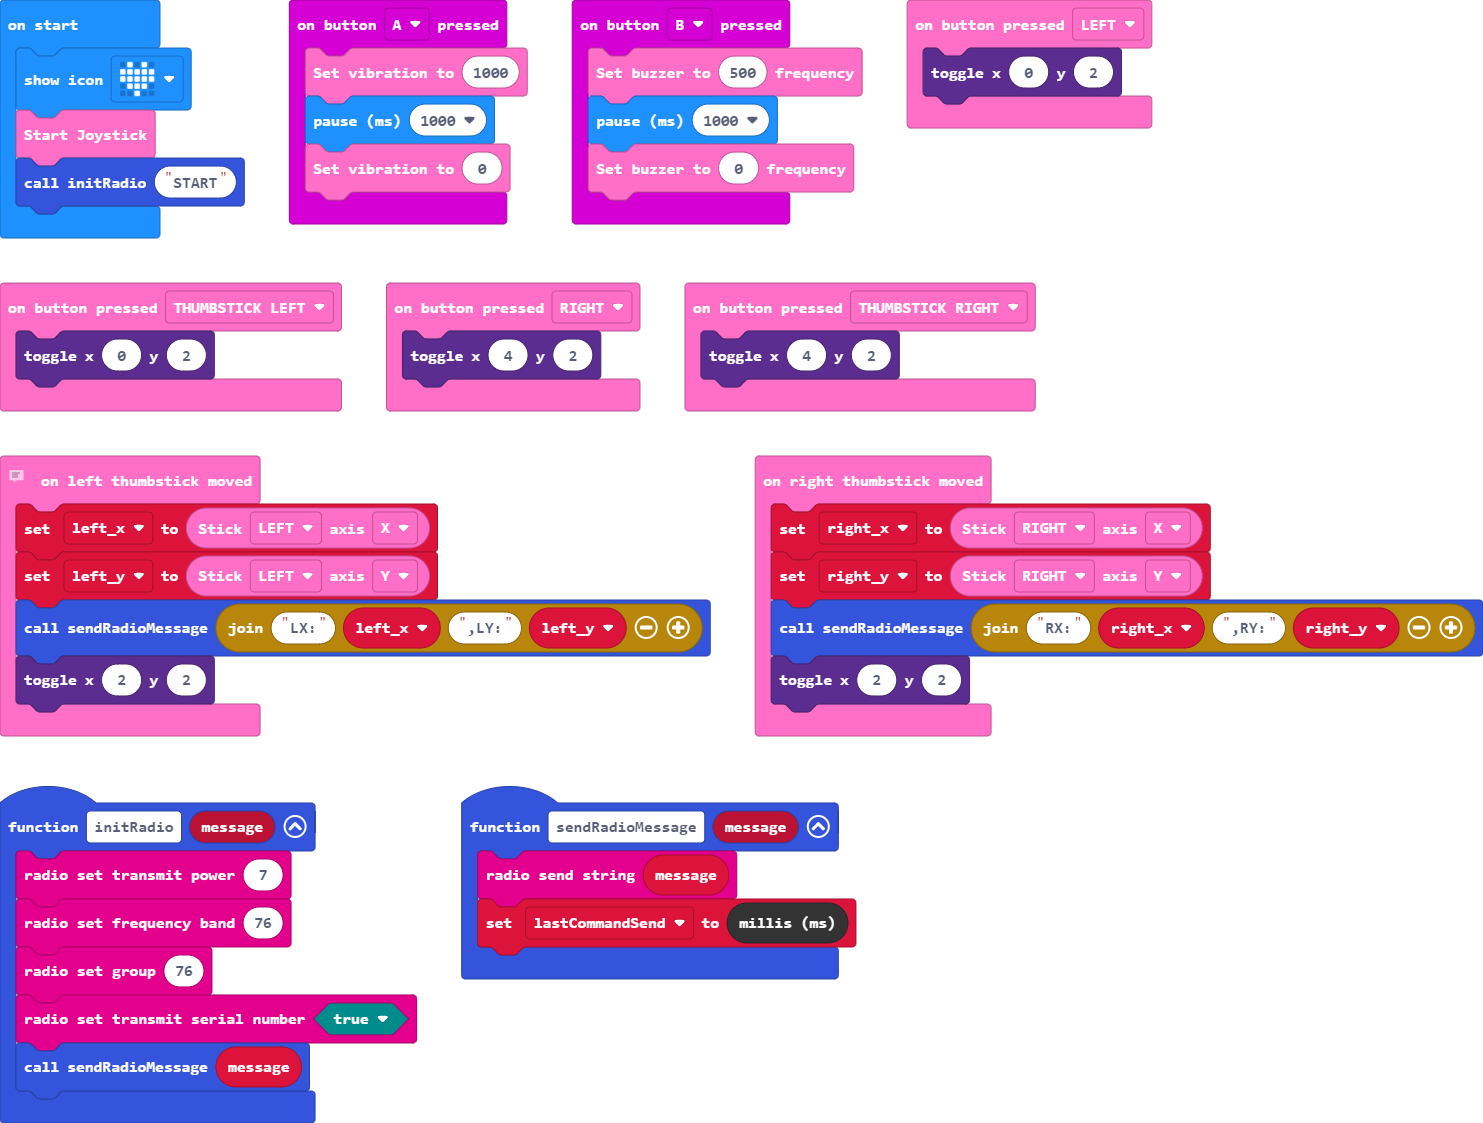
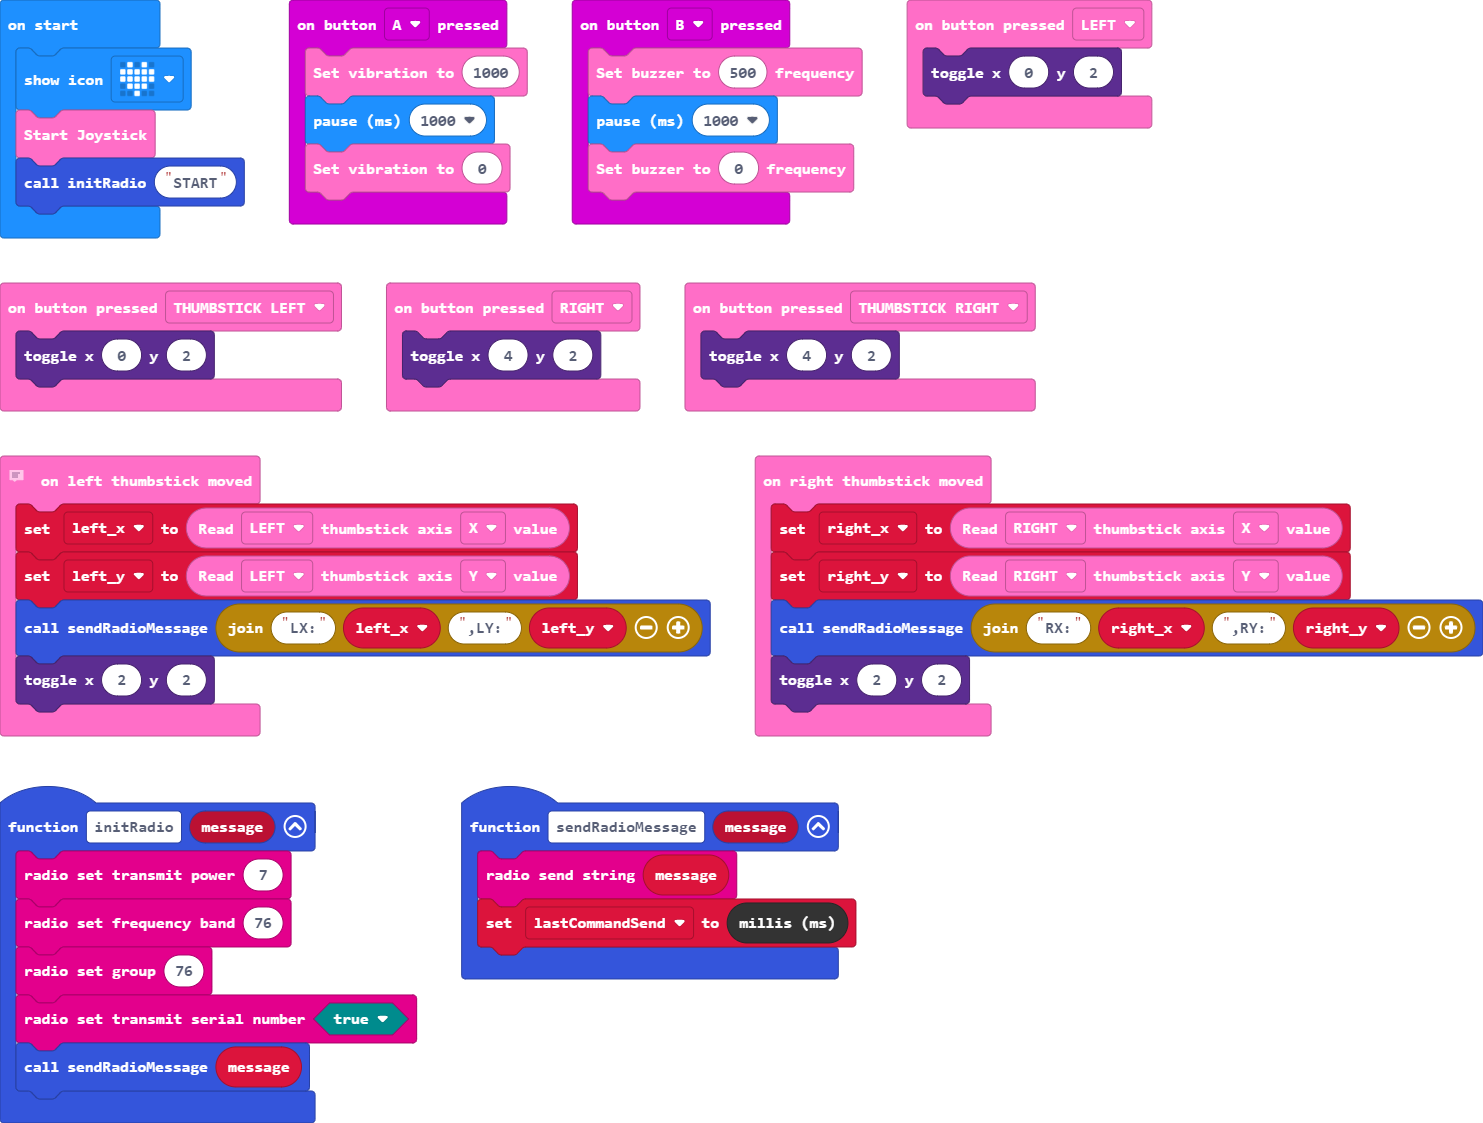
Update main.blocks, joystickbit.ts

Changed region(s): [[0.6514, 0.4363, 0.9305, 0.561], [0.1551, 0.4363, 0.4032, 0.561]]

diff --git a/joystickbit.ts b/joystickbit.ts
@@ -59,7 +59,7 @@ enum Stick {
     RIGHT = 1,
 }
 
-//% color="#FF6EC7" weight=10 icon="\uf11b" block="Joystick"
+//% color="#FF6EC7" weight=10 icon="\uf11b" block="Tiger Fancy Joystick"
 //% category="Joystick"
 namespace joystick {
 
@@ -83,7 +83,7 @@ namespace joystick {
     /**
       * Add into the start function to initialise the joystick.
     */
-    //% weight=1
+    //% weight=100
     //% block="Start Joystick"
     export function start(): void {
 
@@ -152,7 +152,7 @@ namespace joystick {
      * @param handler body code to run when the event is raised
      */
     //% block="on button pressed %button"
-    //% weight=10
+    //% weight=90
     export function onButtonPressed(
         button: buttons,
         handler: () => void
@@ -171,7 +171,7 @@ namespace joystick {
  * @param handler body code to run when the event is raised
  */
     //% block="on left thumbstick moved"
-    //% weight=20
+    //% weight=80
     export function onLeftThumbstickMoved(
         handler: () => void
     ) {
@@ -189,7 +189,7 @@ namespace joystick {
 * @param handler body code to run when the event is raised
 */
     //% block="on right thumbstick moved"
-    //% weight=30
+    //% weight=70
     export function onRightThumbstickMoved(
         handler: () => void
     ) {
@@ -325,7 +325,7 @@ namespace joystick {
     // }
 
     //% blockId=isButtonPressed block="Is button %button pressed?"
-    //% weight=74
+    //% weight=0
     //% inlineInputMode=inline
      function isButtonPressed(button: buttons): boolean {
          if (getButtonStatus(button) != NONE_PRESS && getButtonStatus(button) != 0xff) {
@@ -335,7 +335,7 @@ namespace joystick {
     }
 
     //% blockId=isButtonReleased block="Is button %button released?"
-    //% weight=74
+    //% weight=0
     //% inlineInputMode=inline
      function isButtonReleased(button: buttons): boolean {
          if (getButtonStatus(button) == NONE_PRESS) {
@@ -344,8 +344,8 @@ namespace joystick {
         return false;
     }
 
-    //% blockId=buttonStatus block="Get button %button status"
-    //% weight=60
+    //% blockId=buttonStatus block="Read %button button status"
+    //% weight=45
     //% inlineInputMode=inline
     export function getButtonStatus(button: buttons): key_status {
         //return Get_Button_Status(button)
@@ -365,7 +365,7 @@ namespace joystick {
 
     //% blockId=Gamepad_shock block="Set vibration to %shock"  
     //% shock.min=0 shock.max=1000
-    //% weight=40
+    //% weight=46
     //% inlineInputMode=inline
     export function setVibration(shock: number): void {
         let a = AnalogPin.P1;
@@ -374,15 +374,14 @@ namespace joystick {
 
     //% blockId=SetBuzzer block="Set buzzer to %freq frequency"
     //% freq.min=0 freq.max=1000
-    //% weight=50
+    //% weight=47
     export function setBuzzer(freq: number): void {
         let a = AnalogPin.P0;
         pins.analogWritePin(a, freq)
     }
 
-
-    //% blockId=GetStickAxis block="Stick %stick axis %axial"
-    //% weight=70
+    //% blockId=GetStickAxis block="Read %stick thumbstick axis %axial value"
+    //% weight=10
     //% inlineInputMode=inline
     export function getThumbstickAxis(stick: Stick, axial: Axis) {
         let val = 0;
@@ -402,11 +401,9 @@ namespace joystick {
         return val;
     }
 
-
-
     //https://blackdoor.github.io/blog/thumbstick-controls/
-    //% blockId=getDirection block="Get compass based direction for %stick"
-    //% weight=80
+    //% blockId=getDirection block="Read compass based direction for %stick thumbstick"
+    //% weight=5
     //% inlineInputMode=inline
     export function getDirection(stick: Stick): direction {
 
